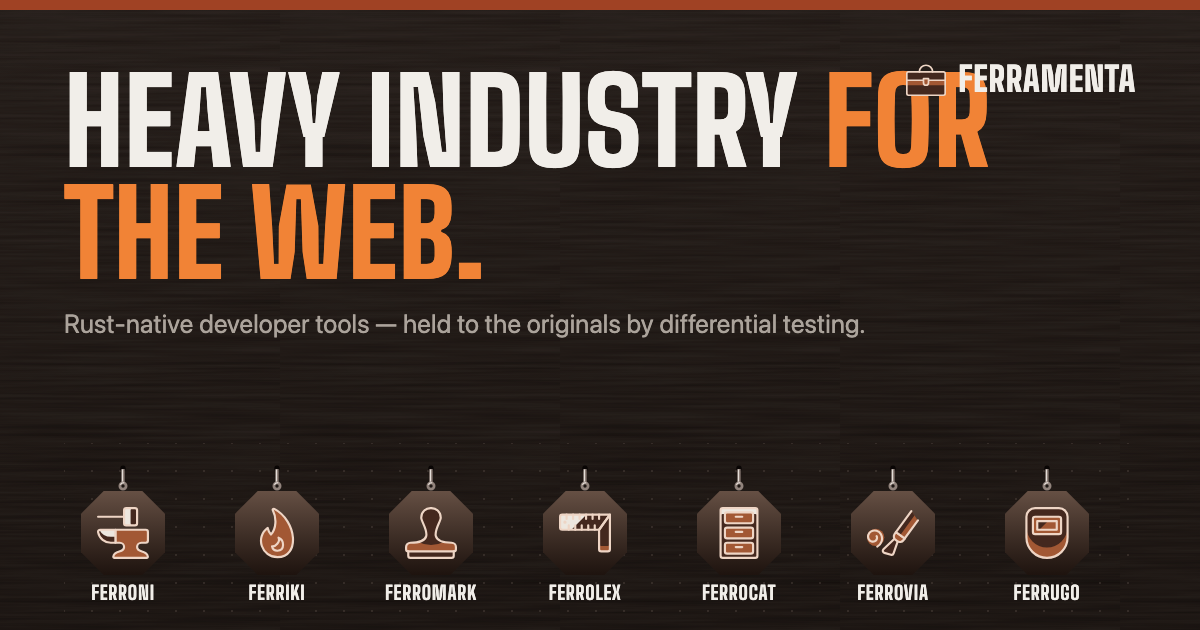
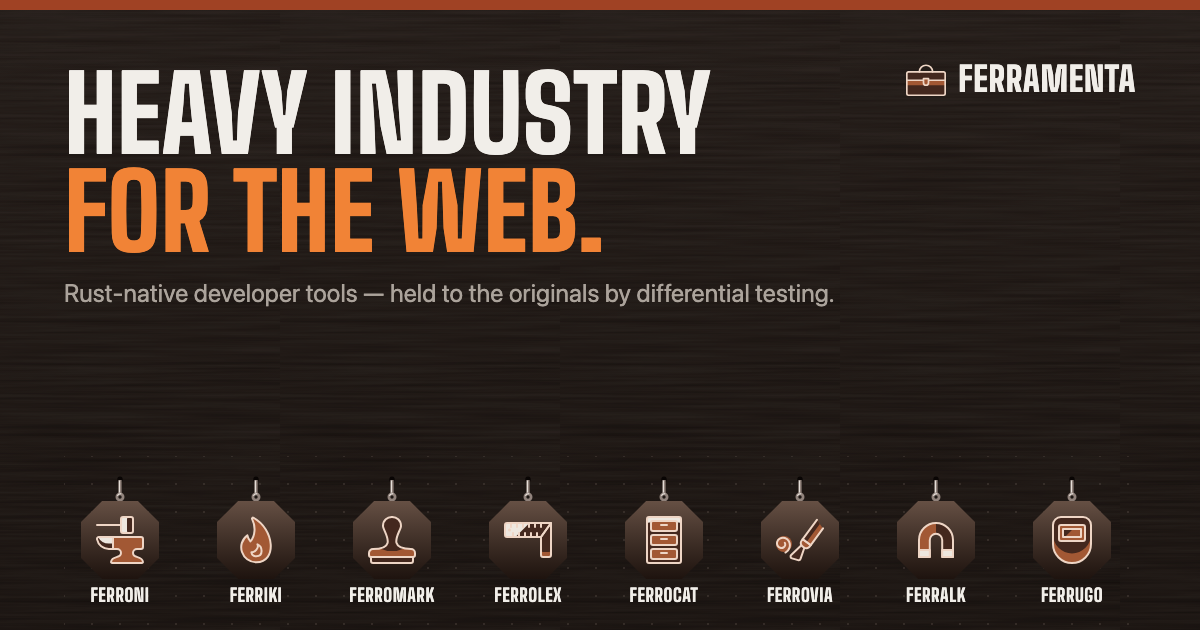
feat(family): add ferralk to the registry and the wall
ferralk is byte-first glob matching plus parallel filesystem walking (v0.1.2,
git-pinned, checked against a frozen zlob reference). It joins the workbench
group, so board, ledger, tools flyout and footer pick it up from the registry.

Its mark is a horseshoe magnet — the tool that pulls exactly the matching
pieces out of the pile — drawn in-house in the duotone construction (24 grid,
two fills plus outline), which keeps it free of any Streamline claim. Board
hooks stay on the 28px wall grid with eight plates (0.0px measured); the social
card was re-rendered with the full set.

Changed region(s): [[0.0308, 0.0905, 0.8325, 0.5429], [0.0617, 0.754, 0.925, 0.9651]]

diff --git a/app/components/mark-defs.ts b/app/components/mark-defs.ts
@@ -1,3 +1,5 @@
-// AUTO-EXTRACTED from design/comp/entwurf-c.html — the approved comp is the source of truth.
-// Duotone project marks are derived from Streamline icons (see THIRD-PARTY-NOTICES.md).
-export const MARK_DEFS = '<symbol id="i-ferramenta" viewBox="0 0 24 24"><path d="M1.5 7.747h21s1 0 1 1v12s0 1 -1 1h-21s-1 0 -1 -1v-12s0 -1 1 -1" fill="var(--duo1)" stroke-width="1"></path> <path d="M0.5 12.747h23v3H0.5Z" fill="var(--duo2)" stroke-width="1"></path> <path d="m0.5 12.747 10 0" stroke="var(--duoink)" stroke-linecap="round" stroke-linejoin="round" fill="none" stroke-width="1"></path> <path d="m13.5 12.747 10 0" stroke="var(--duoink)" stroke-linecap="round" stroke-linejoin="round" fill="none" stroke-width="1"></path> <path d="M13.5 14.247a1.5 1.5 0 0 1 -3 0v-2.5h3Z" fill="var(--duo2)" stroke="var(--duoink)" stroke-linecap="round" stroke-linejoin="round" stroke-width="1"></path> <path d="M8 7.747a4 4 0 0 1 8 0" stroke="var(--duoink)" stroke-linecap="round" stroke-linejoin="round" fill="none" stroke-width="1"></path> <path d="M1.5 7.747h21s1 0 1 1v12s0 1 -1 1h-21s-1 0 -1 -1v-12s0 -1 1 -1" stroke="var(--duoink)" stroke-linecap="round" stroke-linejoin="round" fill="none" stroke-width="1"></path></symbol>\n    <symbol id="i-ferroni" viewBox="0 0 24 24"><path d="M8.5 16.5h2a2 2 0 0 1 2 2c0 3.064 -4.53 1 -4.966 4.436a0.5 0.5 0 0 0 0.5 0.564h14.935a0.5 0.5 0 0 0 0.5 -0.565c-0.448 -3.369 -4.969 -1.424 -4.969 -4.435a2 2 0 0 1 2 -2h2a1 1 0 0 0 1 -1v-4a1 1 0 0 0 -1 -1h-14Z" fill="var(--duo2)" stroke-width="1"></path> <path d="M12.223 19.547c-0.98 1.519 -4.318 0.465 -4.689 3.389a0.5 0.5 0 0 0 0.5 0.564h14.935a0.5 0.5 0 0 0 0.5 -0.565c-0.377 -2.865 -3.694 -1.9 -4.681 -3.391a29.738 29.738 0 0 0 -6.561 0Z" fill="var(--duo2)" stroke-width="1"></path> <path d="M8.5 16.5h2a2 2 0 0 1 2 2c0 3.064 -4.53 1 -4.966 4.436a0.5 0.5 0 0 0 0.5 0.564h14.935a0.5 0.5 0 0 0 0.5 -0.565c-0.448 -3.369 -4.969 -1.424 -4.969 -4.435a2 2 0 0 1 2 -2h2a1 1 0 0 0 1 -1v-4a1 1 0 0 0 -1 -1h-14Z" fill="none" stroke="var(--duoink)" stroke-linecap="round" stroke-linejoin="round" stroke-width="1"></path> <path d="M1.5 10.5a1 1 0 0 0 -0.98 1.2 6 6 0 0 0 5.88 4.8h2.1v-6Z" fill="var(--duo0)" stroke-width="1"></path> <path d="M1.12 10.586a0.98 0.98 0 0 0 -0.393 0.281 1 1 0 0 0 -0.207 0.833 6 6 0 0 0 5.88 4.8h2.1v-2.727H6.4a5.98 5.98 0 0 1 -5.28 -3.187Z" fill="var(--duo1)" stroke-width="1"></path> <path d="M1.5 10.5a1 1 0 0 0 -0.98 1.2 6 6 0 0 0 5.88 4.8h2.1v-6Z" fill="none" stroke="var(--duoink)" stroke-linecap="round" stroke-linejoin="round" stroke-width="1"></path> <path d="m0.5 4.5 12 0" fill="none" stroke="var(--duoink)" stroke-linecap="round" stroke-linejoin="round" stroke-width="1"></path> <path d="M13.5 0.5h4s1 0 1 1v6s0 1 -1 1h-4s-1 0 -1 -1v-6s0 -1 1 -1" fill="var(--duo1)" stroke-width="1"></path> <path d="M15.5 7.5v-6a1 1 0 0 1 1 -1h-3a1 1 0 0 0 -1 1v6a1 1 0 0 0 1 1h3a1 1 0 0 1 -1 -1Z" fill="var(--duo0)" stroke-width="1"></path> <path d="M13.5 0.5h4s1 0 1 1v6s0 1 -1 1h-4s-1 0 -1 -1v-6s0 -1 1 -1" fill="none" stroke="var(--duoink)" stroke-linecap="round" stroke-linejoin="round" stroke-width="1"></path></symbol>\n    <symbol id="i-ferriki" viewBox="0 0 24 24"><path d="M10.747 0.884a0.5 0.5 0 0 0 -0.679 0.669C11.883 5.1 11.69 9.959 9.205 12.7a6.568 6.568 0 0 1 -1.5 -3.029c-5.9 4.225 -2.789 13.5 4.5 13.5 10.47 0.004 9.073 -16.706 -1.458 -22.287Z" stroke="var(--duoink)" stroke-linecap="round" stroke-linejoin="round" fill="var(--duo2)" stroke-width="1"></path> <path d="M12.705 14.175c0.99 1.763 -1.512 4.294 -3 3.944a2.494 2.494 0 0 0 2.454 2.056c3.624 0 3.229 -5 0.546 -6Z" fill="var(--duo2)" stroke="var(--duoink)" stroke-linecap="round" stroke-linejoin="round" stroke-width="1"></path></symbol>\n    <symbol id="i-ferromark" viewBox="0 0 24 24"><path d="M22.5 20.5v2a1 1 0 0 1 -1 1h-19a1 1 0 0 1 -1 -1v-2" fill="var(--duo1)" stroke-width="1"></path> <path d="M23.5 18.5v1a1 1 0 0 1 -1 1h-21a1 1 0 0 1 -1 -1v-1a2 2 0 0 1 2 -2c12.91 0 5 -8.87 5 -11.54 0 -5.96 9 -5.95 9 0 0 2.64 -7.88 11.54 5 11.54a2 2 0 0 1 2 2Z" fill="var(--duo1)" stroke-width="1"></path> <path d="M21.5 16.5a17.665 17.665 0 0 1 -3.516 -0.307 14.393 14.393 0 0 1 -11.964 0 17.809 17.809 0 0 1 -3.52 0.3 2 2 0 0 0 -2 2v1a1 1 0 0 0 1 1h21a1 1 0 0 0 1 -1v-1a2 2 0 0 0 -2 -1.993Z" fill="var(--duo2)" stroke-width="1"></path> <path d="M22.5 20.5v2a1 1 0 0 1 -1 1h-19a1 1 0 0 1 -1 -1v-2" fill="none" stroke="var(--duoink)" stroke-linecap="round" stroke-linejoin="round" stroke-width="1"></path> <path d="M23.5 18.5v1a1 1 0 0 1 -1 1h-21a1 1 0 0 1 -1 -1v-1a2 2 0 0 1 2 -2c12.91 0 5 -8.87 5 -11.54 0 -5.96 9 -5.95 9 0 0 2.64 -7.88 11.54 5 11.54a2 2 0 0 1 2 2Z" fill="none" stroke="var(--duoink)" stroke-linecap="round" stroke-linejoin="round" stroke-width="1"></path></symbol>\n    <symbol id="i-ferrolex" viewBox="0 0 24 24"><path d="M23.5 3.5h-22a1 1 0 0 0 -1 1v5a1 1 0 0 0 1 1h17Z" fill="var(--duo1)" stroke-width="1"></path> <path d="M1.5 3.5a1 1 0 0 0 -1 1v5a1 1 0 0 0 1 1h4.239l7 -7Z" fill="var(--duo0)" stroke-width="1"></path> <path d="M18.5 19.5a1 1 0 0 0 1 1h3a1 1 0 0 0 1 -1v-16l-5 7Z" fill="var(--duo1)" stroke-width="1"></path> <path d="M22.5 18h-3a1 1 0 0 1 -1 -1v2.5a1 1 0 0 0 1 1h3a1 1 0 0 0 1 -1V17a1 1 0 0 1 -1 1Z" fill="var(--duo2)" stroke-width="1"></path> <path d="M18.5 19.5a1 1 0 0 0 1 1h3a1 1 0 0 0 1 -1v-16l-5 7Z" fill="none" stroke="var(--duoink)" stroke-linecap="round" stroke-linejoin="round" stroke-width="1"></path> <path d="M23.5 3.5h-22a1 1 0 0 0 -1 1v5a1 1 0 0 0 1 1h17Z" fill="none" stroke="var(--duoink)" stroke-linecap="round" stroke-linejoin="round" stroke-width="1"></path> <path d="m3.5 3.5 0 2" fill="none" stroke="var(--duoink)" stroke-linecap="round" stroke-linejoin="round" stroke-width="1"></path> <path d="m6.5 3.5 0 2" fill="none" stroke="var(--duoink)" stroke-linecap="round" stroke-linejoin="round" stroke-width="1"></path> <path d="m9.5 3.5 0 2" fill="none" stroke="var(--duoink)" stroke-linecap="round" stroke-linejoin="round" stroke-width="1"></path> <path d="m12.5 3.5 0 2" fill="none" stroke="var(--duoink)" stroke-linecap="round" stroke-linejoin="round" stroke-width="1"></path> <path d="m15.5 3.5 0 2" fill="none" stroke="var(--duoink)" stroke-linecap="round" stroke-linejoin="round" stroke-width="1"></path> <path d="m18.5 3.5 0 2" fill="none" stroke="var(--duoink)" stroke-linecap="round" stroke-linejoin="round" stroke-width="1"></path> <path d="m4.5 10.5 0 -2" fill="none" stroke="var(--duoink)" stroke-linecap="round" stroke-linejoin="round" stroke-width="1"></path> <path d="m7.5 10.5 0 -2" fill="none" stroke="var(--duoink)" stroke-linecap="round" stroke-linejoin="round" stroke-width="1"></path> <path d="m10.5 10.5 0 -2" fill="none" stroke="var(--duoink)" stroke-linecap="round" stroke-linejoin="round" stroke-width="1"></path> <path d="m13.5 10.5 0 -2" fill="none" stroke="var(--duoink)" stroke-linecap="round" stroke-linejoin="round" stroke-width="1"></path> <path d="m16.5 10.5 0 -2" fill="none" stroke="var(--duoink)" stroke-linecap="round" stroke-linejoin="round" stroke-width="1"></path> <path d="M2.75 6.75A0.25 0.25 0 1 1 2.5 7a0.25 0.25 0 0 1 0.25 -0.25" fill="none" stroke="var(--duoink)" stroke-linecap="round" stroke-linejoin="round" stroke-width="1"></path></symbol>\n    <symbol id="i-ferrocat" viewBox="0 0 24 24"><path d="M20.5 22.5a1 1 0 0 1 -1 1h-15a1 1 0 0 1 -1 -1v-21a1 1 0 0 1 1 -1h15a1 1 0 0 1 1 1Z" fill="var(--duo1)" stroke-width="1"></path> <path d="M19.5 0.5h-15a1 1 0 0 0 -1 1v2.775a1 1 0 0 1 1 -1h15a1 1 0 0 1 1 1V1.5a1 1 0 0 0 -1 -1Z" fill="var(--duo0)" stroke-width="1"></path> <path d="M20.5 22.5a1 1 0 0 1 -1 1h-15a1 1 0 0 1 -1 -1v-21a1 1 0 0 1 1 -1h15a1 1 0 0 1 1 1Z" fill="none" stroke="var(--duoink)" stroke-linecap="round" stroke-linejoin="round" stroke-width="1"></path> <path d="M18.5 6.5a1 1 0 0 1 -1 1h-11a1 1 0 0 1 -1 -1v-3a1 1 0 0 1 1 -1h11a1 1 0 0 1 1 1Z" fill="var(--duo2)" stroke-width="1"></path> <path d="M18.5 13.5a1 1 0 0 1 -1 1h-11a1 1 0 0 1 -1 -1v-3a1 1 0 0 1 1 -1h11a1 1 0 0 1 1 1Z" fill="var(--duo2)" stroke-width="1"></path> <path d="M18.5 20.5a1 1 0 0 1 -1 1h-11a1 1 0 0 1 -1 -1v-3a1 1 0 0 1 1 -1h11a1 1 0 0 1 1 1Z" fill="var(--duo2)" stroke-width="1"></path> <path d="M10.5 4.5h3" fill="none" stroke="var(--duoink)" stroke-linecap="round" stroke-linejoin="round" stroke-width="1"></path> <path d="M10.5 11.5h3" fill="none" stroke="var(--duoink)" stroke-linecap="round" stroke-linejoin="round" stroke-width="1"></path> <path d="M10.5 18.5h3" fill="none" stroke="var(--duoink)" stroke-linecap="round" stroke-linejoin="round" stroke-width="1"></path> <path d="M18.5 6.5a1 1 0 0 1 -1 1h-11a1 1 0 0 1 -1 -1v-3a1 1 0 0 1 1 -1h11a1 1 0 0 1 1 1Z" fill="none" stroke="var(--duoink)" stroke-linecap="round" stroke-linejoin="round" stroke-width="1"></path> <path d="M18.5 13.5a1 1 0 0 1 -1 1h-11a1 1 0 0 1 -1 -1v-3a1 1 0 0 1 1 -1h11a1 1 0 0 1 1 1Z" fill="none" stroke="var(--duoink)" stroke-linecap="round" stroke-linejoin="round" stroke-width="1"></path> <path d="M18.5 20.5a1 1 0 0 1 -1 1h-11a1 1 0 0 1 -1 -1v-3a1 1 0 0 1 1 -1h11a1 1 0 0 1 1 1Z" fill="none" stroke="var(--duoink)" stroke-linecap="round" stroke-linejoin="round" stroke-width="1"></path></symbol>\n    <symbol id="i-ferrovia" viewBox="0 0 24 24"><path d="M0 14a4 4 0 1 0 8 0 4 4 0 1 0 -8 0" fill="var(--duo2)" stroke-width="1"></path> <path d="m12.68 14.617 -5.094 4.87A1 1 0 0 0 8 21.17l3.042 0.889a1 1 0 0 0 1.225 -0.632l1.923 -5.537" stroke="var(--duoink)" stroke-linecap="round" stroke-linejoin="round" fill="var(--duo1)" stroke-width="1"></path> <path d="M12.769 12.382a2 2 0 0 0 0.429 2.8l0.806 0.592a2 2 0 0 0 2.8 -0.429l0.591 -0.807 -4.03 -2.958Z" fill="var(--duo2)" stroke="var(--duoink)" stroke-linecap="round" stroke-linejoin="round" stroke-width="1"></path> <path d="m20.46 1.901 -7.099 9.674 4.03 2.958L23.5 6.21l-3.04 -4.309z" fill="var(--duo2)" stroke-width="1"></path> <path d="M21.903 3.946 20.46 1.901l-7.099 9.674 1.952 1.433 6.59 -9.062z" fill="var(--duo1)" stroke-width="1"></path> <path d="M4.735 18.274a4.177 4.177 0 0 0 1.7 -5.657 3.341 3.341 0 0 0 -4.526 -1.358A2.673 2.673 0 0 0 0.82 14.88a2.138 2.138 0 0 0 2.9 0.868 1.71 1.71 0 0 0 0.695 -2.317" fill="none" stroke="var(--duoink)" stroke-linecap="round" stroke-linejoin="round" stroke-width="1"></path> <path d="m20.46 1.901 -7.099 9.674 4.03 2.958L23.5 6.21" fill="none" stroke="var(--duoink)" stroke-linecap="round" stroke-linejoin="round" stroke-width="1"></path></symbol>\n    <symbol id="i-ferrugo" viewBox="0 0 24 24"><path d="M21.5 14a9.5 9.5 0 0 1 -19 0V4.5a4 4 0 0 1 4 -4h11a4 4 0 0 1 4 4Z" fill="var(--duo1)" stroke-width="1"></path> <path d="M12 18.69a9.5 9.5 0 0 1 -9.5 -9.5V14a9.5 9.5 0 0 0 19 0V9.19a9.5 9.5 0 0 1 -9.5 9.5Z" fill="var(--duo2)" stroke-width="1"></path> <path d="M21.5 14a9.5 9.5 0 0 1 -19 0V4.5a4 4 0 0 1 4 -4h11a4 4 0 0 1 4 4Z" stroke="var(--duoink)" stroke-linecap="round" stroke-linejoin="round" fill="none" stroke-width="1"></path> <path d="M6.5 4.5h11s1 0 1 1v6s0 1 -1 1h-11s-1 0 -1 -1v-6s0 -1 1 -1" fill="var(--duo2)" stroke="var(--duoink)" stroke-linecap="round" stroke-linejoin="round" stroke-width="1"></path> <path d="M7.5 6.5h9v4h-9Z" fill="var(--duo2)" stroke-width="1"></path> <path d="m7.5 6.5 0 4 0.975 0 4 -4 -4.975 0z" fill="var(--duo1)" stroke-width="1"></path> <path d="M7.5 6.5h9v4h-9Z" stroke="var(--duoink)" stroke-linecap="round" stroke-linejoin="round" fill="none" stroke-width="1"></path></symbol>\n    <symbol id="i-hook" viewBox="0 0 24 28"><ellipse cx="12" cy="3.4" rx="2.7" ry="3" fill="var(--hook-hole)"/><path d="M12 4 V17.6" stroke="var(--hook-dark)" stroke-width="3.2" fill="none"/><path d="M11.4 4.6 V17" stroke="var(--hook-light)" stroke-width="1.1" fill="none"/><circle cx="12" cy="21" r="3.1" fill="none" stroke="var(--hook-dark)" stroke-width="2.8"/><path d="M9.4 19.8 a3.4 3.4 0 0 1 3.8 -1.9" fill="none" stroke="var(--hook-light)" stroke-width="1.1"/></symbol><symbol id="i-chev" viewBox="0 0 24 24"><path d="M6.5 9.25 L12 14.75 L17.5 9.25"/></symbol>\n    <symbol id="i-arrow" viewBox="0 0 24 24"><path d="M4 12 h15.25"/><path d="M13.5 5.75 L19.75 12 L13.5 18.25"/></symbol>\n    <symbol id="i-github" viewBox="0 0 16 16"><path d="M8 0C3.58 0 0 3.58 0 8c0 3.54 2.29 6.53 5.47 7.59.4.07.55-.17.55-.38 0-.19-.01-.82-.01-1.49-2.01.37-2.53-.49-2.69-.94-.09-.23-.48-.94-.82-1.13-.28-.15-.68-.52-.01-.53.63-.01 1.08.58 1.23.82.72 1.21 1.87.87 2.33.66.07-.52.28-.87.51-1.07-1.78-.2-3.64-.89-3.64-3.95 0-.87.31-1.59.82-2.15-.08-.2-.36-1.02.08-2.12 0 0 .67-.21 2.2.82.64-.18 1.32-.27 2-.27s1.36.09 2 .27c1.53-1.04 2.2-.82 2.2-.82.44 1.1.16 1.92.08 2.12.51.56.82 1.27.82 2.15 0 3.07-1.87 3.75-3.65 3.95.29.25.54.73.54 1.48 0 1.07-.01 1.93-.01 2.2 0 .21.15.46.55.38A8.01 8.01 0 0 0 16 8c0-4.42-3.58-8-8-8z"/></symbol>'
+// Extracted from design/comp/entwurf-c.html — the approved comp is the source of truth for
+// the seven marks it shows. Marks for tools that joined the family later are appended here
+// in the same duotone construction (24 grid, two fills plus outline, square caps).
+// Streamline-derived marks: see THIRD-PARTY-NOTICES.md; i-ferralk is our own drawing.
+export const MARK_DEFS = '<symbol id="i-ferramenta" viewBox="0 0 24 24"><path d="M1.5 7.747h21s1 0 1 1v12s0 1 -1 1h-21s-1 0 -1 -1v-12s0 -1 1 -1" fill="var(--duo1)" stroke-width="1"></path> <path d="M0.5 12.747h23v3H0.5Z" fill="var(--duo2)" stroke-width="1"></path> <path d="m0.5 12.747 10 0" stroke="var(--duoink)" stroke-linecap="round" stroke-linejoin="round" fill="none" stroke-width="1"></path> <path d="m13.5 12.747 10 0" stroke="var(--duoink)" stroke-linecap="round" stroke-linejoin="round" fill="none" stroke-width="1"></path> <path d="M13.5 14.247a1.5 1.5 0 0 1 -3 0v-2.5h3Z" fill="var(--duo2)" stroke="var(--duoink)" stroke-linecap="round" stroke-linejoin="round" stroke-width="1"></path> <path d="M8 7.747a4 4 0 0 1 8 0" stroke="var(--duoink)" stroke-linecap="round" stroke-linejoin="round" fill="none" stroke-width="1"></path> <path d="M1.5 7.747h21s1 0 1 1v12s0 1 -1 1h-21s-1 0 -1 -1v-12s0 -1 1 -1" stroke="var(--duoink)" stroke-linecap="round" stroke-linejoin="round" fill="none" stroke-width="1"></path></symbol>\n    <symbol id="i-ferroni" viewBox="0 0 24 24"><path d="M8.5 16.5h2a2 2 0 0 1 2 2c0 3.064 -4.53 1 -4.966 4.436a0.5 0.5 0 0 0 0.5 0.564h14.935a0.5 0.5 0 0 0 0.5 -0.565c-0.448 -3.369 -4.969 -1.424 -4.969 -4.435a2 2 0 0 1 2 -2h2a1 1 0 0 0 1 -1v-4a1 1 0 0 0 -1 -1h-14Z" fill="var(--duo2)" stroke-width="1"></path> <path d="M12.223 19.547c-0.98 1.519 -4.318 0.465 -4.689 3.389a0.5 0.5 0 0 0 0.5 0.564h14.935a0.5 0.5 0 0 0 0.5 -0.565c-0.377 -2.865 -3.694 -1.9 -4.681 -3.391a29.738 29.738 0 0 0 -6.561 0Z" fill="var(--duo2)" stroke-width="1"></path> <path d="M8.5 16.5h2a2 2 0 0 1 2 2c0 3.064 -4.53 1 -4.966 4.436a0.5 0.5 0 0 0 0.5 0.564h14.935a0.5 0.5 0 0 0 0.5 -0.565c-0.448 -3.369 -4.969 -1.424 -4.969 -4.435a2 2 0 0 1 2 -2h2a1 1 0 0 0 1 -1v-4a1 1 0 0 0 -1 -1h-14Z" fill="none" stroke="var(--duoink)" stroke-linecap="round" stroke-linejoin="round" stroke-width="1"></path> <path d="M1.5 10.5a1 1 0 0 0 -0.98 1.2 6 6 0 0 0 5.88 4.8h2.1v-6Z" fill="var(--duo0)" stroke-width="1"></path> <path d="M1.12 10.586a0.98 0.98 0 0 0 -0.393 0.281 1 1 0 0 0 -0.207 0.833 6 6 0 0 0 5.88 4.8h2.1v-2.727H6.4a5.98 5.98 0 0 1 -5.28 -3.187Z" fill="var(--duo1)" stroke-width="1"></path> <path d="M1.5 10.5a1 1 0 0 0 -0.98 1.2 6 6 0 0 0 5.88 4.8h2.1v-6Z" fill="none" stroke="var(--duoink)" stroke-linecap="round" stroke-linejoin="round" stroke-width="1"></path> <path d="m0.5 4.5 12 0" fill="none" stroke="var(--duoink)" stroke-linecap="round" stroke-linejoin="round" stroke-width="1"></path> <path d="M13.5 0.5h4s1 0 1 1v6s0 1 -1 1h-4s-1 0 -1 -1v-6s0 -1 1 -1" fill="var(--duo1)" stroke-width="1"></path> <path d="M15.5 7.5v-6a1 1 0 0 1 1 -1h-3a1 1 0 0 0 -1 1v6a1 1 0 0 0 1 1h3a1 1 0 0 1 -1 -1Z" fill="var(--duo0)" stroke-width="1"></path> <path d="M13.5 0.5h4s1 0 1 1v6s0 1 -1 1h-4s-1 0 -1 -1v-6s0 -1 1 -1" fill="none" stroke="var(--duoink)" stroke-linecap="round" stroke-linejoin="round" stroke-width="1"></path></symbol>\n    <symbol id="i-ferriki" viewBox="0 0 24 24"><path d="M10.747 0.884a0.5 0.5 0 0 0 -0.679 0.669C11.883 5.1 11.69 9.959 9.205 12.7a6.568 6.568 0 0 1 -1.5 -3.029c-5.9 4.225 -2.789 13.5 4.5 13.5 10.47 0.004 9.073 -16.706 -1.458 -22.287Z" stroke="var(--duoink)" stroke-linecap="round" stroke-linejoin="round" fill="var(--duo2)" stroke-width="1"></path> <path d="M12.705 14.175c0.99 1.763 -1.512 4.294 -3 3.944a2.494 2.494 0 0 0 2.454 2.056c3.624 0 3.229 -5 0.546 -6Z" fill="var(--duo2)" stroke="var(--duoink)" stroke-linecap="round" stroke-linejoin="round" stroke-width="1"></path></symbol>\n    <symbol id="i-ferromark" viewBox="0 0 24 24"><path d="M22.5 20.5v2a1 1 0 0 1 -1 1h-19a1 1 0 0 1 -1 -1v-2" fill="var(--duo1)" stroke-width="1"></path> <path d="M23.5 18.5v1a1 1 0 0 1 -1 1h-21a1 1 0 0 1 -1 -1v-1a2 2 0 0 1 2 -2c12.91 0 5 -8.87 5 -11.54 0 -5.96 9 -5.95 9 0 0 2.64 -7.88 11.54 5 11.54a2 2 0 0 1 2 2Z" fill="var(--duo1)" stroke-width="1"></path> <path d="M21.5 16.5a17.665 17.665 0 0 1 -3.516 -0.307 14.393 14.393 0 0 1 -11.964 0 17.809 17.809 0 0 1 -3.52 0.3 2 2 0 0 0 -2 2v1a1 1 0 0 0 1 1h21a1 1 0 0 0 1 -1v-1a2 2 0 0 0 -2 -1.993Z" fill="var(--duo2)" stroke-width="1"></path> <path d="M22.5 20.5v2a1 1 0 0 1 -1 1h-19a1 1 0 0 1 -1 -1v-2" fill="none" stroke="var(--duoink)" stroke-linecap="round" stroke-linejoin="round" stroke-width="1"></path> <path d="M23.5 18.5v1a1 1 0 0 1 -1 1h-21a1 1 0 0 1 -1 -1v-1a2 2 0 0 1 2 -2c12.91 0 5 -8.87 5 -11.54 0 -5.96 9 -5.95 9 0 0 2.64 -7.88 11.54 5 11.54a2 2 0 0 1 2 2Z" fill="none" stroke="var(--duoink)" stroke-linecap="round" stroke-linejoin="round" stroke-width="1"></path></symbol>\n    <symbol id="i-ferrolex" viewBox="0 0 24 24"><path d="M23.5 3.5h-22a1 1 0 0 0 -1 1v5a1 1 0 0 0 1 1h17Z" fill="var(--duo1)" stroke-width="1"></path> <path d="M1.5 3.5a1 1 0 0 0 -1 1v5a1 1 0 0 0 1 1h4.239l7 -7Z" fill="var(--duo0)" stroke-width="1"></path> <path d="M18.5 19.5a1 1 0 0 0 1 1h3a1 1 0 0 0 1 -1v-16l-5 7Z" fill="var(--duo1)" stroke-width="1"></path> <path d="M22.5 18h-3a1 1 0 0 1 -1 -1v2.5a1 1 0 0 0 1 1h3a1 1 0 0 0 1 -1V17a1 1 0 0 1 -1 1Z" fill="var(--duo2)" stroke-width="1"></path> <path d="M18.5 19.5a1 1 0 0 0 1 1h3a1 1 0 0 0 1 -1v-16l-5 7Z" fill="none" stroke="var(--duoink)" stroke-linecap="round" stroke-linejoin="round" stroke-width="1"></path> <path d="M23.5 3.5h-22a1 1 0 0 0 -1 1v5a1 1 0 0 0 1 1h17Z" fill="none" stroke="var(--duoink)" stroke-linecap="round" stroke-linejoin="round" stroke-width="1"></path> <path d="m3.5 3.5 0 2" fill="none" stroke="var(--duoink)" stroke-linecap="round" stroke-linejoin="round" stroke-width="1"></path> <path d="m6.5 3.5 0 2" fill="none" stroke="var(--duoink)" stroke-linecap="round" stroke-linejoin="round" stroke-width="1"></path> <path d="m9.5 3.5 0 2" fill="none" stroke="var(--duoink)" stroke-linecap="round" stroke-linejoin="round" stroke-width="1"></path> <path d="m12.5 3.5 0 2" fill="none" stroke="var(--duoink)" stroke-linecap="round" stroke-linejoin="round" stroke-width="1"></path> <path d="m15.5 3.5 0 2" fill="none" stroke="var(--duoink)" stroke-linecap="round" stroke-linejoin="round" stroke-width="1"></path> <path d="m18.5 3.5 0 2" fill="none" stroke="var(--duoink)" stroke-linecap="round" stroke-linejoin="round" stroke-width="1"></path> <path d="m4.5 10.5 0 -2" fill="none" stroke="var(--duoink)" stroke-linecap="round" stroke-linejoin="round" stroke-width="1"></path> <path d="m7.5 10.5 0 -2" fill="none" stroke="var(--duoink)" stroke-linecap="round" stroke-linejoin="round" stroke-width="1"></path> <path d="m10.5 10.5 0 -2" fill="none" stroke="var(--duoink)" stroke-linecap="round" stroke-linejoin="round" stroke-width="1"></path> <path d="m13.5 10.5 0 -2" fill="none" stroke="var(--duoink)" stroke-linecap="round" stroke-linejoin="round" stroke-width="1"></path> <path d="m16.5 10.5 0 -2" fill="none" stroke="var(--duoink)" stroke-linecap="round" stroke-linejoin="round" stroke-width="1"></path> <path d="M2.75 6.75A0.25 0.25 0 1 1 2.5 7a0.25 0.25 0 0 1 0.25 -0.25" fill="none" stroke="var(--duoink)" stroke-linecap="round" stroke-linejoin="round" stroke-width="1"></path></symbol>\n    <symbol id="i-ferrocat" viewBox="0 0 24 24"><path d="M20.5 22.5a1 1 0 0 1 -1 1h-15a1 1 0 0 1 -1 -1v-21a1 1 0 0 1 1 -1h15a1 1 0 0 1 1 1Z" fill="var(--duo1)" stroke-width="1"></path> <path d="M19.5 0.5h-15a1 1 0 0 0 -1 1v2.775a1 1 0 0 1 1 -1h15a1 1 0 0 1 1 1V1.5a1 1 0 0 0 -1 -1Z" fill="var(--duo0)" stroke-width="1"></path> <path d="M20.5 22.5a1 1 0 0 1 -1 1h-15a1 1 0 0 1 -1 -1v-21a1 1 0 0 1 1 -1h15a1 1 0 0 1 1 1Z" fill="none" stroke="var(--duoink)" stroke-linecap="round" stroke-linejoin="round" stroke-width="1"></path> <path d="M18.5 6.5a1 1 0 0 1 -1 1h-11a1 1 0 0 1 -1 -1v-3a1 1 0 0 1 1 -1h11a1 1 0 0 1 1 1Z" fill="var(--duo2)" stroke-width="1"></path> <path d="M18.5 13.5a1 1 0 0 1 -1 1h-11a1 1 0 0 1 -1 -1v-3a1 1 0 0 1 1 -1h11a1 1 0 0 1 1 1Z" fill="var(--duo2)" stroke-width="1"></path> <path d="M18.5 20.5a1 1 0 0 1 -1 1h-11a1 1 0 0 1 -1 -1v-3a1 1 0 0 1 1 -1h11a1 1 0 0 1 1 1Z" fill="var(--duo2)" stroke-width="1"></path> <path d="M10.5 4.5h3" fill="none" stroke="var(--duoink)" stroke-linecap="round" stroke-linejoin="round" stroke-width="1"></path> <path d="M10.5 11.5h3" fill="none" stroke="var(--duoink)" stroke-linecap="round" stroke-linejoin="round" stroke-width="1"></path> <path d="M10.5 18.5h3" fill="none" stroke="var(--duoink)" stroke-linecap="round" stroke-linejoin="round" stroke-width="1"></path> <path d="M18.5 6.5a1 1 0 0 1 -1 1h-11a1 1 0 0 1 -1 -1v-3a1 1 0 0 1 1 -1h11a1 1 0 0 1 1 1Z" fill="none" stroke="var(--duoink)" stroke-linecap="round" stroke-linejoin="round" stroke-width="1"></path> <path d="M18.5 13.5a1 1 0 0 1 -1 1h-11a1 1 0 0 1 -1 -1v-3a1 1 0 0 1 1 -1h11a1 1 0 0 1 1 1Z" fill="none" stroke="var(--duoink)" stroke-linecap="round" stroke-linejoin="round" stroke-width="1"></path> <path d="M18.5 20.5a1 1 0 0 1 -1 1h-11a1 1 0 0 1 -1 -1v-3a1 1 0 0 1 1 -1h11a1 1 0 0 1 1 1Z" fill="none" stroke="var(--duoink)" stroke-linecap="round" stroke-linejoin="round" stroke-width="1"></path></symbol>\n    <symbol id="i-ferrovia" viewBox="0 0 24 24"><path d="M0 14a4 4 0 1 0 8 0 4 4 0 1 0 -8 0" fill="var(--duo2)" stroke-width="1"></path> <path d="m12.68 14.617 -5.094 4.87A1 1 0 0 0 8 21.17l3.042 0.889a1 1 0 0 0 1.225 -0.632l1.923 -5.537" stroke="var(--duoink)" stroke-linecap="round" stroke-linejoin="round" fill="var(--duo1)" stroke-width="1"></path> <path d="M12.769 12.382a2 2 0 0 0 0.429 2.8l0.806 0.592a2 2 0 0 0 2.8 -0.429l0.591 -0.807 -4.03 -2.958Z" fill="var(--duo2)" stroke="var(--duoink)" stroke-linecap="round" stroke-linejoin="round" stroke-width="1"></path> <path d="m20.46 1.901 -7.099 9.674 4.03 2.958L23.5 6.21l-3.04 -4.309z" fill="var(--duo2)" stroke-width="1"></path> <path d="M21.903 3.946 20.46 1.901l-7.099 9.674 1.952 1.433 6.59 -9.062z" fill="var(--duo1)" stroke-width="1"></path> <path d="M4.735 18.274a4.177 4.177 0 0 0 1.7 -5.657 3.341 3.341 0 0 0 -4.526 -1.358A2.673 2.673 0 0 0 0.82 14.88a2.138 2.138 0 0 0 2.9 0.868 1.71 1.71 0 0 0 0.695 -2.317" fill="none" stroke="var(--duoink)" stroke-linecap="round" stroke-linejoin="round" stroke-width="1"></path> <path d="m20.46 1.901 -7.099 9.674 4.03 2.958L23.5 6.21" fill="none" stroke="var(--duoink)" stroke-linecap="round" stroke-linejoin="round" stroke-width="1"></path></symbol>\n    <symbol id="i-ferrugo" viewBox="0 0 24 24"><path d="M21.5 14a9.5 9.5 0 0 1 -19 0V4.5a4 4 0 0 1 4 -4h11a4 4 0 0 1 4 4Z" fill="var(--duo1)" stroke-width="1"></path> <path d="M12 18.69a9.5 9.5 0 0 1 -9.5 -9.5V14a9.5 9.5 0 0 0 19 0V9.19a9.5 9.5 0 0 1 -9.5 9.5Z" fill="var(--duo2)" stroke-width="1"></path> <path d="M21.5 14a9.5 9.5 0 0 1 -19 0V4.5a4 4 0 0 1 4 -4h11a4 4 0 0 1 4 4Z" stroke="var(--duoink)" stroke-linecap="round" stroke-linejoin="round" fill="none" stroke-width="1"></path> <path d="M6.5 4.5h11s1 0 1 1v6s0 1 -1 1h-11s-1 0 -1 -1v-6s0 -1 1 -1" fill="var(--duo2)" stroke="var(--duoink)" stroke-linecap="round" stroke-linejoin="round" stroke-width="1"></path> <path d="M7.5 6.5h9v4h-9Z" fill="var(--duo2)" stroke-width="1"></path> <path d="m7.5 6.5 0 4 0.975 0 4 -4 -4.975 0z" fill="var(--duo1)" stroke-width="1"></path> <path d="M7.5 6.5h9v4h-9Z" stroke="var(--duoink)" stroke-linecap="round" stroke-linejoin="round" fill="none" stroke-width="1"></path></symbol>\n    <symbol id="i-hook" viewBox="0 0 24 28"><ellipse cx="12" cy="3.4" rx="2.7" ry="3" fill="var(--hook-hole)"/><path d="M12 4 V17.6" stroke="var(--hook-dark)" stroke-width="3.2" fill="none"/><path d="M11.4 4.6 V17" stroke="var(--hook-light)" stroke-width="1.1" fill="none"/><circle cx="12" cy="21" r="3.1" fill="none" stroke="var(--hook-dark)" stroke-width="2.8"/><path d="M9.4 19.8 a3.4 3.4 0 0 1 3.8 -1.9" fill="none" stroke="var(--hook-light)" stroke-width="1.1"/></symbol><symbol id="i-chev" viewBox="0 0 24 24"><path d="M6.5 9.25 L12 14.75 L17.5 9.25"/></symbol>\n    <symbol id="i-arrow" viewBox="0 0 24 24"><path d="M4 12 h15.25"/><path d="M13.5 5.75 L19.75 12 L13.5 18.25"/></symbol>\n    <symbol id="i-github" viewBox="0 0 16 16"><path d="M8 0C3.58 0 0 3.58 0 8c0 3.54 2.29 6.53 5.47 7.59.4.07.55-.17.55-.38 0-.19-.01-.82-.01-1.49-2.01.37-2.53-.49-2.69-.94-.09-.23-.48-.94-.82-1.13-.28-.15-.68-.52-.01-.53.63-.01 1.08.58 1.23.82.72 1.21 1.87.87 2.33.66.07-.52.28-.87.51-1.07-1.78-.2-3.64-.89-3.64-3.95 0-.87.31-1.59.82-2.15-.08-.2-.36-1.02.08-2.12 0 0 .67-.21 2.2.82.64-.18 1.32-.27 2-.27s1.36.09 2 .27c1.53-1.04 2.2-.82 2.2-.82.44 1.1.16 1.92.08 2.12.51.56.82 1.27.82 2.15 0 3.07-1.87 3.75-3.65 3.95.29.25.54.73.54 1.48 0 1.07-.01 1.93-.01 2.2 0 .21.15.46.55.38A8.01 8.01 0 0 0 16 8c0-4.42-3.58-8-8-8z"/></symbol><symbol id="i-ferralk" viewBox="0 0 24 24"><path d="M3.5 20.5V12a8.5 8.5 0 0 1 17 0v8.5h-5.4V12a3.1 3.1 0 0 0-6.2 0v8.5Z" fill="var(--duo1)" stroke-width="1"></path> <path d="M8.9 12a3.1 3.1 0 0 1 3.1-3.1V3.5A8.5 8.5 0 0 0 3.5 12v8.5h5.4Z" fill="var(--duo2)" stroke-width="1"></path> <path d="M3.5 20.5V12a8.5 8.5 0 0 1 17 0v8.5h-5.4V12a3.1 3.1 0 0 0-6.2 0v8.5Z" fill="none" stroke="var(--duoink)" stroke-linecap="round" stroke-linejoin="round" stroke-width="1"></path> <path d="M3.5 17h5.4v3.5H3.5zM15.1 17h5.4v3.5h-5.4z" fill="var(--duo0)" stroke="var(--duoink)" stroke-linecap="round" stroke-linejoin="round" stroke-width="1"></path></symbol>'

diff --git a/packages/ardo-config/dist/family.js b/packages/ardo-config/dist/family.js
@@ -89,6 +89,17 @@ export const family = [
         repo: "https://github.com/sebastian-software/ferrovia",
     },
     {
+        name: "ferralk",
+        job: "Glob matching and parallel filesystem walking",
+        shortJob: "glob matching",
+        proof: "Every build tool pays for finding files before it does any work. ferralk keeps zlob's byte-first approach in pure Rust — no Zig, no C ABI — and holds its matcher and walker to a frozen zlob reference.",
+        evidence: "Frozen zlob reference · ahead of globset and fast-glob",
+        version: "0.1.2",
+        status: "early",
+        registry: "crates.io",
+        repo: "https://github.com/sebastian-software/ferralk",
+    },
+    {
         name: "ferrugo",
         job: "PDF previews for untrusted files",
         shortJob: "pdf previews",

diff --git a/packages/ardo-config/src/family.ts b/packages/ardo-config/src/family.ts
@@ -130,6 +130,18 @@ export const family: FamilyTool[] = [
     repo: "https://github.com/sebastian-software/ferrovia",
   },
   {
+    name: "ferralk",
+    job: "Glob matching and parallel filesystem walking",
+    shortJob: "glob matching",
+    proof:
+      "Every build tool pays for finding files before it does any work. ferralk keeps zlob's byte-first approach in pure Rust — no Zig, no C ABI — and holds its matcher and walker to a frozen zlob reference.",
+    evidence: "Frozen zlob reference · ahead of globset and fast-glob",
+    version: "0.1.2",
+    status: "early",
+    registry: "crates.io",
+    repo: "https://github.com/sebastian-software/ferralk",
+  },
+  {
     name: "ferrugo",
     job: "PDF previews for untrusted files",
     shortJob: "pdf previews",

diff --git a/app/routes/home.tsx b/app/routes/home.tsx
@@ -229,8 +229,8 @@ export default function HomePage() {
           <div className="wrap">
             <h2>On the workbench</h2>
             <p className="intro">
-              Two more tools taking shape — early, cut from the same steel, and explicit about
-              what is proven now and what is still on the bench.
+              Three more tools taking shape — early, cut from the same steel, and explicit
+              about what is proven now and what is still on the bench.
             </p>
             <div className="ledger">
               {workbench.map((tool) => (

diff --git a/PRODUCT.md b/PRODUCT.md
@@ -23,7 +23,7 @@ A massive build-out of critical software infrastructure in Rust, aligned with th
 - Family registry (all named equally; subfamilies exist):
   - Content pipeline: **ferroni** (Oniguruma-compatible regex engine, v1.3.0, crates.io, most stable) → **ferriki** (Shiki-compatible syntax highlighting, v0.2.0, alpha) → **ferromark** (CommonMark/GFM Markdown→HTML, v0.7.0, crates.io + npm, beta)
   - Language: **ferrolex** (spell-checking engine, Hunspell-compatible, v0.2.0, alpha, very active) + **ferrocat** (translation catalog engine: PO/FCL/ICU, v3.4.2, crates.io, most mature)
-  - Solo: **ferrovia** (SVGO-compatible SVG optimizer, 0.1.0, WIP) and **ferrugo** (PDF preview engine, v0.5.0, crates.io) — both early stage, sites deferred.
+  - Workbench (solo tools): **ferralk** (byte-first glob matching + parallel filesystem walking, v0.1.2, git-pinned, checked against a frozen zlob reference), **ferrovia** (SVGO-compatible SVG optimizer, 0.1.0, WIP) and **ferrugo** (PDF preview engine, v0.5.0, crates.io) — all early stage, sites deferred.
 - Each project site lives in its own repo under `homepage/`, built on Ardo (in-house React-Router/SSG docs framework, v4.2), deployed to GitHub Pages. URLs: GitHub Pages now, own domains over time (ferramenta.dev and ferrocat.dev already live).
 - This repo holds the family overview site plus the shared package `@ferramenta/family` (rename of `@ferramenta/ardo-config`): design tokens, finished components (header with project switcher, footer, ProjectLogo, family registry), custom logo SVGs, bundled display font.
 
@@ -39,7 +39,7 @@ A massive build-out of critical software infrastructure in Rust, aligned with th
 - Light & clean base with rust/terracotta accent; ember-glow gradient reserved for hero moments; full dark mode. (User-pinned.)
 - Angular form language throughout ("sharp" aesthetic: hard corners, square caps, miter joins).
 - Typography: system-ui for body and docs text; a bold, industrial display face for headlines (Space Grotesk is the user-named lead candidate; final pick via direction drafts); system mono stack for code. Only the display font is bundled.
-- Custom project symbols (one per tool, metalwork metaphor, MIT-clean, drawn in-house): ferramenta = pegboard, ferroni = anvil, ferriki = welding torch, ferromark = metal punch, ferrolex = caliper, ferrocat = parts-drawer cabinet, ferrovia = file, ferrugo = welding mask.
+- Custom project symbols (one per tool, metalwork metaphor, MIT-clean, drawn in-house): ferramenta = pegboard, ferroni = anvil, ferriki = welding torch, ferromark = metal punch, ferrolex = caliper, ferrocat = parts-drawer cabinet, ferrovia = file, ferrugo = welding mask, ferralk = horseshoe magnet (drawn in-house, MIT-clean).
 - Logo lockup: project icon + lowercase wordmark in the brand display face, identical rules for every project.
 - Shared header carries a family-wide project switcher on every site.
 - Overview page: all 7 tools listed equally, grouped by subfamily; philosophy section carries the positioning above.

diff --git a/THIRD-PARTY-NOTICES.md b/THIRD-PARTY-NOTICES.md
@@ -5,7 +5,7 @@ The following bundled assets carry their own terms and are **not** covered by th
 
 ## Streamline icons
 
-The Ferramenta project marks (toolbox, anvil, flame, stamp, corner ruler, drawer
+Most Ferramenta project marks (toolbox, anvil, flame, stamp, corner ruler, drawer
 cabinet, carving chisel, welding helmet — in `app/components/mark-defs.ts`,
 `app/assets/brand/` and `design/comp/`) are derived from icons by
 [Streamline](https://streamlinehq.com) (Duotone and Ultimate sets), adapted in
@@ -15,6 +15,9 @@ These icon assets remain the property of Streamline Design Inc. and may be used
 only in the context of the Ferramenta open-source projects. They may not be
 extracted, redistributed, or reused as standalone assets. Fewer than 100
 Streamline-derived icons are used per project.
+
+The ferralk mark (horseshoe magnet) is our own drawing in the same construction and
+carries no Streamline claim; it is covered by this repository's MIT license.
 
 ## Big Shoulders (font)
 

diff --git a/DESIGN.md b/DESIGN.md
@@ -81,7 +81,9 @@ padding ≡ 14 (mod 28).
 
 - **Project marks**: duotone, 24-grid, derived from Streamline (Duotone set) — recolored to
   the `--duo*` ramp, caps/joins forced square/miter. One motif per tool (toolbox, anvil+hammer,
-  flame, stamp, corner ruler, drawer cabinet, carving chisel, welding helmet). Sprite:
+  flame, stamp, corner ruler, drawer cabinet, carving chisel, welding helmet, and a horseshoe
+  magnet drawn in-house for ferralk). Marks for tools that join later are appended to the
+  sprite in the same construction: 24 grid, two fills plus a 1px outline, square caps. Sprite:
   [app/components/mark-defs.ts](app/components/mark-defs.ts), mounted once via `<MarkDefs/>`;
   class `mark`. **License**: Streamline property, not MIT — see THIRD-PARTY-NOTICES.md.
 - **Chrome icons** (chevron, arrow, GitHub, hook): line style, 1.5/24, square caps, class `icon`.

diff --git a/README.md b/README.md
@@ -24,6 +24,7 @@ More tools in the store:
 
 | Tool | Job |
 | --- | --- |
+| [ferralk](https://github.com/sebastian-software/ferralk) | Glob matching and parallel filesystem walking |
 | [ferrovia](https://github.com/sebastian-software/ferrovia) | SVGO-compatible SVG optimizer |
 | [ferrocat](https://github.com/sebastian-software/ferrocat) | Translation catalog engine (PO, FCL, ICU MessageFormat) |
 | [ferrolex](https://github.com/sebastian-software/ferrolex) | Spell, dictionary, and brand validation |
